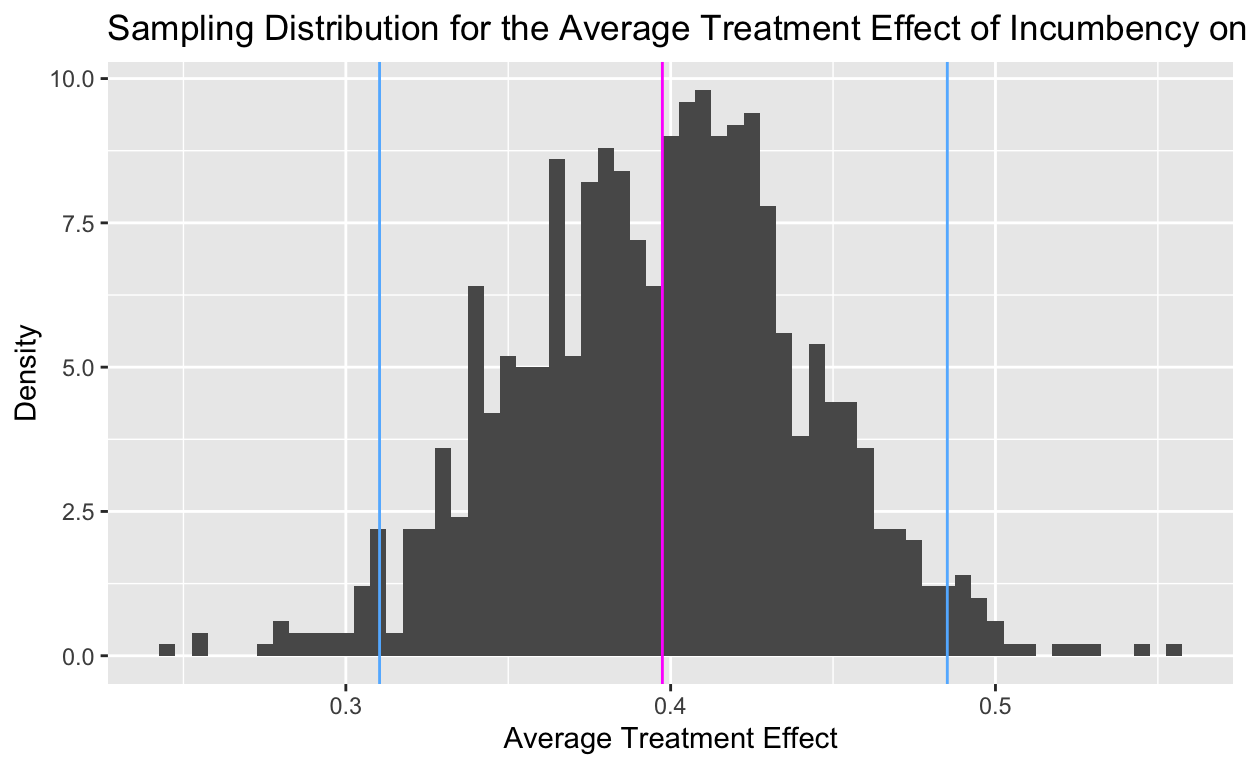
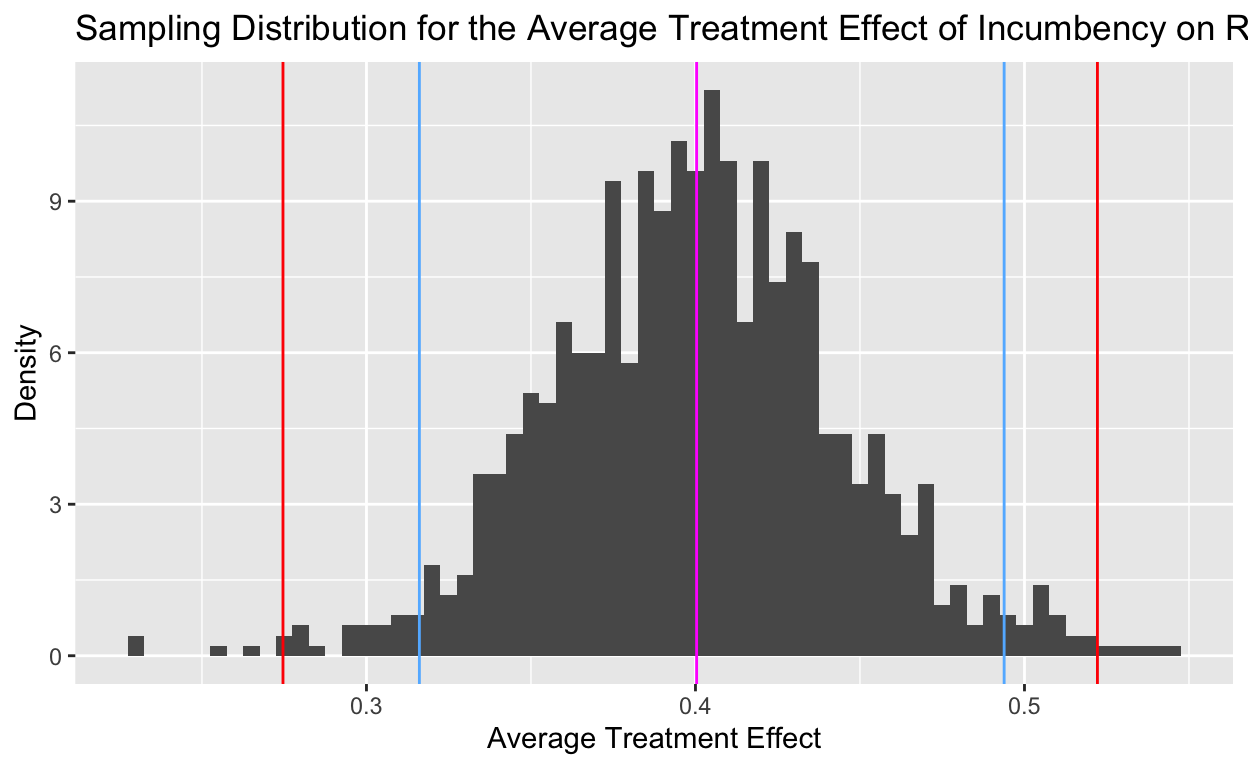
Revisions with knitter

diff --git a/index.html b/index.html
@@ -1545,7 +1545,7 @@ code span.wa { color: #5e5e5e; font-style: italic; } /* Warning */
 <div class="d-article">
 <h2 id="introduction">Introduction</h2>
 <p>The 2020 U.S. Presidential Election between Donald Trump and Joe Biden proved to be contentious as many citizens, including elected representatives, denied it’s legitimacy. The widespread denial eventually lead to, what some political scientists consider, a coup d’état on January 6th, 2021, where more than 2,000 rioters stormed the U.S. capital in an attempt to block Joe Biden’s inauguration. This historic event fueled further political polarization among American voters, and “denying the 2020 election” became a new characteristic that some voters used to cast their ballot. I aim to determine if it is more likely for republicans to have a decisive opinion on the legitimacy of the 2020 election when they have greater sense of security in their election success, such as when they are an incumbent. According to authors of “Government in America: People, Politics, and Policy”, Incumbency is the strongest determinant of electoral success. The researchers compiled data from Congressional elections and determined that incumbents have had between a 75 and 98 percent success rate when running for reelection between 1990 and 2012 (Edwards et al., 2013, 365). In 2020, incumbents running for reelection in the U.S. House of Representatives had a 94.7 percent chance of winning, while U.S. Senators had an 83.9 percent chance of winning reelection, given they held the position before (Reelection Rates Over the Years, n.d.). While these statistics are explained by the incumbent’s increased access to money, campaign organization, visibility, and office perks of Congress, it also represents a heightened feeling of job security which eases electoral pressure and allows candidates to speak more freely about their opinion on contentious political topics.</p>
-<p>Thus my research question is as follows: Does incumbency impact a republican congressional candidate’s likelihood of outwardly denying the 2020 Election results? In this study, I plan determine if there is a correlation between the incumbency of congressional republican representatives who are candidates in the 2022 elections and if they deny the 2020 election. I hypothesis that being an incumbent increases the candidates feelings of job security, and are thus more likely to express potentially polarizing view points, such as denying the election. I expect to find a positive correlation between incumbency of the congressional candidate and having a decisive opinion regarding the legitimacy of the 2020 U.S. Presidential Election.</p>
+<p>Thus my research question is as follows: Does incumbency impact a republican congressional candidate’s likelihood of presenting a decisive opinion on the legitimacy of the 2020 Election results? In this study, I plan determine if there is a correlation between the incumbency of congressional republican representatives who are candidates in the 2022 elections and if they positively deny or approve the results of the 2020 election. I hypothesis that being an incumbent increases the candidates feelings of job security, and are thus more likely to express potentially polarizing view points, such as denying the election, or accepting the reuslts of the election. I expect to find a positive correlation between incumbency of the congressional candidate and having a decisive opinion regarding the legitimacy of the 2020 U.S. Presidential Election.</p>
 <h2 id="data-and-research-method">Data and Research Method</h2>
 <p>To begin this project, I gathered data from a FiveThirtyEight data set titled, “election-deniers” that includes 552 entries for every republican candidate in the 2022 General Election. The data drew from news reports, debate footage, campaign materials and social media and reached out to every nominee in an effort to classify them into one of six categories regarding their belief in the 2020 election’s legitimacy. The final data set includes the name of every Republican candidate for Senate, House, governor, attorney general and secretary of state running in the 2022 general election, their incumbency status, state, office, district, stance, and media source where the candidate expressed their stance. Since my data was gathered from the sample at a single point in time, my research process is cross-sectional.</p>
 <p>To conduct my analyses, I filtered the data by office to ensure that I was only evaluating candidates for the House of Representatives. This allowed me to control for as many variables as possible.</p>
@@ -1567,39 +1567,16 @@ code span.wa { color: #5e5e5e; font-style: italic; } /* Warning */
 <span>                                       <span class='va'>Stance</span> <span class='op'>==</span> <span class='st'>"Avoided answering"</span><span class='op'>~</span> <span class='fl'>0</span> , </span>
 <span>                                       <span class='va'>Stance</span> <span class='op'>==</span> <span class='st'>"No comment"</span> <span class='op'>~</span> <span class='fl'>0</span><span class='op'>)</span><span class='op'>)</span></span>
 <span></span>
-<span><span class='va'>e2</span></span></code></pre>
-</div>
-<pre><code># A tibble: 424 × 10
-   Candidate Incumbent State Office District Stance Source URL   Note 
-   &lt;chr&gt;     &lt;chr&gt;     &lt;chr&gt; &lt;chr&gt;  &lt;chr&gt;    &lt;chr&gt;  &lt;chr&gt;  &lt;chr&gt; &lt;chr&gt;
- 1 Jerry Ca… Yes       Alab… Repre… 1        Fully… Congr… http… &lt;NA&gt; 
- 2 Barry Mo… Yes       Alab… Repre… 2        Fully… Congr… http… &lt;NA&gt; 
- 3 Mike Rog… Yes       Alab… Repre… 3        Fully… Congr… http… &lt;NA&gt; 
- 4 Robert A… Yes       Alab… Repre… 4        Fully… Congr… http… &lt;NA&gt; 
- 5 Dale Str… No        Alab… Repre… 5        Fully… Faceb… http… &lt;NA&gt; 
- 6 Gary Pal… Yes       Alab… Repre… 6        Fully… Congr… http… &lt;NA&gt; 
- 7 Beatrice… No        Alab… Repre… 7        Raise… Email… &lt;NA&gt;  &lt;NA&gt; 
- 8 Nick Beg… No        Alas… Repre… At-Large Accep… Email… &lt;NA&gt;  &lt;NA&gt; 
- 9 Sarah Pa… No        Alas… Repre… At-Large Fully… Alask… http… &lt;NA&gt; 
-10 David Sc… Yes       Ariz… Repre… 1        Fully… Congr… http… &lt;NA&gt; 
-# ℹ 414 more rows
-# ℹ 1 more variable: definitive_stance &lt;dbl&gt;</code></pre>
-<div class="sourceCode">
-<pre class="sourceCode r"><code class="sourceCode r"><span><span class='va'>plot</span><span class='op'>&lt;-</span> <span class='va'>e2</span><span class='op'>|&gt;</span></span>
+<span></span>
+<span><span class='va'>plot</span><span class='op'>&lt;-</span> <span class='va'>e2</span><span class='op'>|&gt;</span></span>
 <span>  <span class='fu'><a href='https://dplyr.tidyverse.org/reference/group_by.html'>group_by</a></span><span class='op'>(</span><span class='va'>definitive_stance</span>, <span class='va'>Incumbent</span><span class='op'>)</span><span class='op'>|&gt;</span></span>
 <span>  <span class='fu'><a href='https://dplyr.tidyverse.org/reference/summarise.html'>summarize</a></span><span class='op'>(</span>count <span class='op'>=</span> <span class='fu'><a href='https://dplyr.tidyverse.org/reference/context.html'>n</a></span><span class='op'>(</span><span class='op'>)</span><span class='op'>)</span><span class='op'>|&gt;</span></span>
 <span>  <span class='fu'><a href='https://tidyr.tidyverse.org/reference/pivot_wider.html'>pivot_wider</a></span><span class='op'>(</span></span>
 <span>    names_from <span class='op'>=</span> <span class='va'>definitive_stance</span>, </span>
 <span>    values_from <span class='op'>=</span> <span class='va'>count</span><span class='op'>)</span></span>
-<span><span class='va'>plot</span></span></code></pre>
-</div>
-<pre><code># A tibble: 2 × 3
-  Incumbent   `0`   `1`
-  &lt;chr&gt;     &lt;int&gt; &lt;int&gt;
-1 No          158    82
-2 Yes          48   136</code></pre>
-<div class="sourceCode">
-<pre class="sourceCode r"><code class="sourceCode r"><span><span class='fu'>knitr</span><span class='fu'>::</span><span class='fu'><a href='https://rdrr.io/pkg/knitr/man/kable.html'>kable</a></span><span class='op'>(</span><span class='va'>plot</span>, col.names <span class='op'>=</span> <span class='fu'><a href='https://rdrr.io/r/base/c.html'>c</a></span><span class='op'>(</span><span class='st'>"Incumbent"</span>, <span class='st'>"Not Definitive"</span>, <span class='st'>"Definitive"</span><span class='op'>)</span><span class='op'>)</span></span></code></pre>
+<span></span>
+<span></span>
+<span><span class='fu'>knitr</span><span class='fu'>::</span><span class='fu'><a href='https://rdrr.io/pkg/knitr/man/kable.html'>kable</a></span><span class='op'>(</span><span class='va'>plot</span>, col.names <span class='op'>=</span> <span class='fu'><a href='https://rdrr.io/r/base/c.html'>c</a></span><span class='op'>(</span><span class='st'>"Incumbent"</span>, <span class='st'>"Not Definitive"</span>, <span class='st'>"Definitive"</span><span class='op'>)</span><span class='op'>)</span></span></code></pre>
 </div>
 <table>
 <thead>
@@ -1633,15 +1610,8 @@ code span.wa { color: #5e5e5e; font-style: italic; } /* Warning */
 <span>    names_from <span class='op'>=</span> <span class='va'>Incumbent</span>,</span>
 <span>    values_from <span class='op'>=</span> <span class='va'>stance_mean</span></span>
 <span>  <span class='op'>)</span></span>
-<span></span>
-<span><span class='va'>plot2</span></span></code></pre>
-</div>
-<pre><code># A tibble: 1 × 2
-     No   Yes
-  &lt;dbl&gt; &lt;dbl&gt;
-1 0.342 0.739</code></pre>
-<div class="sourceCode">
-<pre class="sourceCode r"><code class="sourceCode r"><span><span class='fu'>knitr</span><span class='fu'>::</span><span class='fu'><a href='https://rdrr.io/pkg/knitr/man/kable.html'>kable</a></span><span class='op'>(</span><span class='va'>plot2</span>, col.names <span class='op'>=</span> <span class='fu'><a href='https://rdrr.io/r/base/c.html'>c</a></span><span class='op'>(</span><span class='st'>"Non-Incumbent"</span>, <span class='st'>"Incumbent"</span><span class='op'>)</span><span class='op'>)</span></span></code></pre>
+<span>  </span>
+<span><span class='fu'>knitr</span><span class='fu'>::</span><span class='fu'><a href='https://rdrr.io/pkg/knitr/man/kable.html'>kable</a></span><span class='op'>(</span><span class='va'>plot2</span>, col.names <span class='op'>=</span> <span class='fu'><a href='https://rdrr.io/r/base/c.html'>c</a></span><span class='op'>(</span><span class='st'>"Non-Incumbent"</span>, <span class='st'>"Incumbent"</span><span class='op'>)</span><span class='op'>)</span></span></code></pre>
 </div>
 <table>
 <thead>
@@ -1688,7 +1658,8 @@ code span.wa { color: #5e5e5e; font-style: italic; } /* Warning */
 <h2 id="analysis-of-the-data-and-results">Analysis of the data and Results</h2>
 <p>The graph below shows the sampling distribution for the Average Treatment Effect of Incumbency on Republican Representatives’ likelihood to be decisive about the Legitimacy of the 2020 Election. The histogram depicts the 1000 bootstrap samples that were pulled with replacement from the original sample.</p>
 <p>The left-most vertical blue line that intersects the x-axis at x=0.3103845 is the lower-confidence interval for 95% confidence. The right-most vertical blue line intersects the x-axis at 0.4851755 and represents the upper-confidence interval for 95% confidence. Together, the vertical lines indicate that 95% of the data can be found within the range bordered by the two vertical lines. The magenta line intersects the x-axis at the mean of all samples’ average treatment effects.</p>
-<p>What should be noticed about this sampling distribution is that the confidence interval does not contain zero, meaning that the average treatment effect for 95% of the data shows a positive difference between incumbency variables and the likelihood for a republican representative to be decisive on their opinion regarding the validity of the 2020 election. Thus, the sampling distribution of the average treatment effects prove statistical signficance between the two variables, though it is important to note that important confounders, such as geography have not been considered.</p>
+<p>The left-most vertical red line that intersects the x-axis at x=0.2746276 is the lower-confidence interval for 99% confidence. The right-most vertical blue line intersects the x-axis at x=0.522173 and represents the upper-confidence interval for 99% confidence. Together, the vertical lines indicate that 99% of the data can be found within the range bordered by the two vertical lines.</p>
+<p>What should be noticed about this sampling distribution is that the confidence interval does not contain zero, meaning that the average treatment effect for 95% and 99% of the data show a positive difference between incumbency variables and the likelihood for a republican representative to be decisive on their opinion regarding the validity of the 2020 election. Thus, the sampling distribution of the average treatment effects prove statistical signficance between the two variables, though it is important to note that important confounders, such as geography have not been considered.</p>
 <div class="layout-chunk" data-layout="l-body">
 <div class="sourceCode">
 <pre class="sourceCode r"><code class="sourceCode r"><span><span class='va'>diff_in_means</span> <span class='op'>&lt;-</span> <span class='va'>e2</span><span class='op'>|&gt;</span> </span>
@@ -1698,17 +1669,30 @@ code span.wa { color: #5e5e5e; font-style: italic; } /* Warning */
 <span>              values_from <span class='op'>=</span> <span class='va'>stance_mean</span><span class='op'>)</span><span class='op'>|&gt;</span> </span>
 <span>   <span class='fu'><a href='https://dplyr.tidyverse.org/reference/mutate.html'>mutate</a></span><span class='op'>(</span>ATE<span class='op'>=</span><span class='va'>`Yes`</span><span class='op'>-</span><span class='va'>`No`</span><span class='op'>)</span> </span>
 <span></span>
-<span><span class='va'>diff_in_means</span></span></code></pre>
+<span></span>
+<span><span class='fu'>knitr</span><span class='fu'>::</span><span class='fu'><a href='https://rdrr.io/pkg/knitr/man/kable.html'>kable</a></span><span class='op'>(</span><span class='va'>diff_in_means</span>, col.names <span class='op'>=</span> <span class='fu'><a href='https://rdrr.io/r/base/c.html'>c</a></span><span class='op'>(</span><span class='st'>"Non-Incumbent"</span>, <span class='st'>"Incumbent"</span>, <span class='st'>"ATE"</span><span class='op'>)</span><span class='op'>)</span></span></code></pre>
 </div>
-<pre><code># A tibble: 1 × 3
-     No   Yes   ATE
-  &lt;dbl&gt; &lt;dbl&gt; &lt;dbl&gt;
-1 0.342 0.739 0.397</code></pre>
+<table>
+<thead>
+<tr class="header">
+<th style="text-align: right;">Non-Incumbent</th>
+<th style="text-align: right;">Incumbent</th>
+<th style="text-align: right;">ATE</th>
+</tr>
+</thead>
+<tbody>
+<tr class="odd">
+<td style="text-align: right;">0.3416667</td>
+<td style="text-align: right;">0.7391304</td>
+<td style="text-align: right;">0.3974638</td>
+</tr>
+</tbody>
+</table>
 </div>
 <div class="layout-chunk" data-layout="l-body">
 <div class="sourceCode">
 <pre class="sourceCode r"><code class="sourceCode r"><span><span class='kw'><a href='https://rdrr.io/r/base/library.html'>library</a></span><span class='op'>(</span><span class='va'><a href='https://github.com/tidymodels/infer'>infer</a></span><span class='op'>)</span> </span>
-<span><span class='fu'><a href='https://rdrr.io/r/base/Random.html'>set.seed</a></span><span class='op'>(</span><span class='fl'>02138</span><span class='op'>)</span></span>
+<span><span class='fu'><a href='https://rdrr.io/r/base/Random.html'>set.seed</a></span><span class='op'>(</span><span class='fl'>87122</span><span class='op'>)</span></span>
 <span><span class='va'>dim_boots</span> <span class='op'>&lt;-</span> <span class='va'>e2</span><span class='op'>|&gt;</span> </span>
 <span>  <span class='fu'><a href='https://infer.tidymodels.org/reference/rep_sample_n.html'>rep_slice_sample</a></span><span class='op'>(</span>prop<span class='op'>=</span><span class='fl'>1</span>, replace<span class='op'>=</span><span class='cn'>TRUE</span>, reps<span class='op'>=</span><span class='fl'>1000</span><span class='op'>)</span><span class='op'>|&gt;</span> </span>
 <span>  <span class='fu'><a href='https://dplyr.tidyverse.org/reference/group_by.html'>group_by</a></span><span class='op'>(</span><span class='va'>replicate</span>, <span class='va'>Incumbent</span><span class='op'>)</span><span class='op'>|&gt;</span> </span>
@@ -1716,25 +1700,8 @@ code span.wa { color: #5e5e5e; font-style: italic; } /* Warning */
 <span>  <span class='fu'><a href='https://tidyr.tidyverse.org/reference/pivot_wider.html'>pivot_wider</a></span><span class='op'>(</span>names_from <span class='op'>=</span> <span class='va'>Incumbent</span>,</span>
 <span>              values_from <span class='op'>=</span> <span class='va'>stance_mean</span><span class='op'>)</span><span class='op'>|&gt;</span> </span>
 <span>  <span class='fu'><a href='https://dplyr.tidyverse.org/reference/mutate.html'>mutate</a></span><span class='op'>(</span>ATE<span class='op'>=</span><span class='va'>`Yes`</span><span class='op'>-</span><span class='va'>`No`</span><span class='op'>)</span> </span>
-<span><span class='va'>dim_boots</span></span></code></pre>
-</div>
-<pre><code># A tibble: 1,000 × 4
-# Groups:   replicate [1,000]
-   replicate    No   Yes   ATE
-       &lt;int&gt; &lt;dbl&gt; &lt;dbl&gt; &lt;dbl&gt;
- 1         1 0.361 0.696 0.335
- 2         2 0.362 0.682 0.320
- 3         3 0.311 0.761 0.450
- 4         4 0.352 0.720 0.368
- 5         5 0.357 0.738 0.381
- 6         6 0.389 0.742 0.353
- 7         7 0.331 0.744 0.414
- 8         8 0.335 0.739 0.405
- 9         9 0.340 0.763 0.423
-10        10 0.353 0.703 0.349
-# ℹ 990 more rows</code></pre>
-<div class="sourceCode">
-<pre class="sourceCode r"><code class="sourceCode r"><span><span class='va'>dim_ci_95</span> <span class='op'>&lt;-</span> <span class='va'>dim_boots</span><span class='op'>|&gt;</span> </span>
+<span></span>
+<span><span class='va'>dim_ci_95</span> <span class='op'>&lt;-</span> <span class='va'>dim_boots</span><span class='op'>|&gt;</span> </span>
 <span>  <span class='fu'><a href='https://dplyr.tidyverse.org/reference/select.html'>select</a></span><span class='op'>(</span><span class='va'>replicate</span>,<span class='va'>ATE</span><span class='op'>)</span><span class='op'>|&gt;</span> </span>
 <span>  <span class='fu'><a href='https://infer.tidymodels.org/reference/get_confidence_interval.html'>get_confidence_interval</a></span><span class='op'>(</span>level<span class='op'>=</span><span class='fl'>0.95</span>,type<span class='op'>=</span><span class='st'>"percentile"</span><span class='op'>)</span> </span>
 <span></span>
@@ -1743,12 +1710,25 @@ code span.wa { color: #5e5e5e; font-style: italic; } /* Warning */
 <pre><code># A tibble: 1 × 2
   lower_ci upper_ci
      &lt;dbl&gt;    &lt;dbl&gt;
-1    0.310    0.485</code></pre>
+1    0.316    0.494</code></pre>
+<div class="sourceCode">
+<pre class="sourceCode r"><code class="sourceCode r"><span><span class='va'>dim_ci_99</span> <span class='op'>&lt;-</span> <span class='va'>dim_boots</span><span class='op'>|&gt;</span> </span>
+<span>  <span class='fu'><a href='https://dplyr.tidyverse.org/reference/select.html'>select</a></span><span class='op'>(</span><span class='va'>replicate</span>,<span class='va'>ATE</span><span class='op'>)</span><span class='op'>|&gt;</span> </span>
+<span>  <span class='fu'><a href='https://infer.tidymodels.org/reference/get_confidence_interval.html'>get_confidence_interval</a></span><span class='op'>(</span>level<span class='op'>=</span><span class='fl'>0.99</span>,type<span class='op'>=</span><span class='st'>"percentile"</span><span class='op'>)</span> </span>
+<span></span>
+<span><span class='va'>dim_ci_99</span></span></code></pre>
+</div>
+<pre><code># A tibble: 1 × 2
+  lower_ci upper_ci
+     &lt;dbl&gt;    &lt;dbl&gt;
+1    0.275    0.522</code></pre>
 <div class="sourceCode">
 <pre class="sourceCode r"><code class="sourceCode r"><span><span class='va'>dim_boots</span><span class='op'>|&gt;</span> </span>
 <span>  <span class='fu'><a href='https://ggplot2.tidyverse.org/reference/ggplot.html'>ggplot</a></span><span class='op'>(</span><span class='fu'><a href='https://ggplot2.tidyverse.org/reference/aes.html'>aes</a></span><span class='op'>(</span>x<span class='op'>=</span><span class='va'>ATE</span><span class='op'>)</span><span class='op'>)</span><span class='op'>+</span> <span class='fu'><a href='https://ggplot2.tidyverse.org/reference/geom_histogram.html'>geom_histogram</a></span><span class='op'>(</span><span class='fu'><a href='https://ggplot2.tidyverse.org/reference/aes.html'>aes</a></span><span class='op'>(</span>y<span class='op'>=</span><span class='fu'><a href='https://ggplot2.tidyverse.org/reference/aes_eval.html'>after_stat</a></span><span class='op'>(</span><span class='va'>density</span><span class='op'>)</span><span class='op'>)</span>,binwidth<span class='op'>=</span><span class='fl'>0.005</span><span class='op'>)</span> <span class='op'>+</span> </span>
 <span>  <span class='fu'><a href='https://ggplot2.tidyverse.org/reference/geom_abline.html'>geom_vline</a></span><span class='op'>(</span><span class='fu'><a href='https://ggplot2.tidyverse.org/reference/aes.html'>aes</a></span><span class='op'>(</span>xintercept <span class='op'>=</span> <span class='va'>dim_ci_95</span><span class='op'>$</span><span class='va'>lower_ci</span><span class='op'>)</span>, color <span class='op'>=</span> <span class='st'>"steelblue1"</span><span class='op'>)</span> <span class='op'>+</span></span>
 <span>  <span class='fu'><a href='https://ggplot2.tidyverse.org/reference/geom_abline.html'>geom_vline</a></span><span class='op'>(</span><span class='fu'><a href='https://ggplot2.tidyverse.org/reference/aes.html'>aes</a></span><span class='op'>(</span>xintercept <span class='op'>=</span> <span class='va'>dim_ci_95</span><span class='op'>$</span><span class='va'>upper_ci</span><span class='op'>)</span>, color <span class='op'>=</span> <span class='st'>"steelblue1"</span><span class='op'>)</span> <span class='op'>+</span></span>
+<span>  <span class='fu'><a href='https://ggplot2.tidyverse.org/reference/geom_abline.html'>geom_vline</a></span><span class='op'>(</span><span class='fu'><a href='https://ggplot2.tidyverse.org/reference/aes.html'>aes</a></span><span class='op'>(</span>xintercept <span class='op'>=</span> <span class='va'>dim_ci_99</span><span class='op'>$</span><span class='va'>lower_ci</span><span class='op'>)</span>, color <span class='op'>=</span> <span class='st'>"red"</span><span class='op'>)</span> <span class='op'>+</span></span>
+<span>  <span class='fu'><a href='https://ggplot2.tidyverse.org/reference/geom_abline.html'>geom_vline</a></span><span class='op'>(</span><span class='fu'><a href='https://ggplot2.tidyverse.org/reference/aes.html'>aes</a></span><span class='op'>(</span>xintercept <span class='op'>=</span> <span class='va'>dim_ci_99</span><span class='op'>$</span><span class='va'>upper_ci</span><span class='op'>)</span>, color <span class='op'>=</span> <span class='st'>"red"</span><span class='op'>)</span> <span class='op'>+</span></span>
 <span>  <span class='fu'><a href='https://ggplot2.tidyverse.org/reference/geom_abline.html'>geom_vline</a></span><span class='op'>(</span><span class='fu'><a href='https://ggplot2.tidyverse.org/reference/aes.html'>aes</a></span><span class='op'>(</span>xintercept <span class='op'>=</span> <span class='fu'><a href='https://rdrr.io/r/base/mean.html'>mean</a></span><span class='op'>(</span><span class='va'>ATE</span><span class='op'>)</span><span class='op'>)</span>, color <span class='op'>=</span><span class='st'>"magenta"</span><span class='op'>)</span> <span class='op'>+</span></span>
 <span>  <span class='fu'><a href='https://ggplot2.tidyverse.org/reference/labs.html'>labs</a></span><span class='op'>(</span></span>
 <span>    x <span class='op'>=</span> <span class='st'>"Average Treatment Effect"</span>,</span>
@@ -1756,13 +1736,31 @@ code span.wa { color: #5e5e5e; font-style: italic; } /* Warning */
 <span>    title <span class='op'>=</span> <span class='st'>"Sampling Distribution for the Average Treatment Effect of Incumbency on Republican Representatives' likelihood to be decisive about the Legitimacy of the 2020 Election"</span></span>
 <span>  <span class='op'>)</span></span></code></pre>
 </div>
-<p><img src="index_files/figure-html5/unnamed-chunk-6-1.png" width="624" /></p>
+<img src="index_files/figure-html5/unnamed-chunk-6-1.png" width="624" />
+<div class="sourceCode">
+<pre class="sourceCode r"><code class="sourceCode r"><span><span class='va'>dim_boots</span></span></code></pre>
+</div>
+<pre><code># A tibble: 1,000 × 4
+# Groups:   replicate [1,000]
+   replicate    No   Yes   ATE
+       &lt;int&gt; &lt;dbl&gt; &lt;dbl&gt; &lt;dbl&gt;
+ 1         1 0.267 0.703 0.436
+ 2         2 0.360 0.766 0.406
+ 3         3 0.343 0.759 0.416
+ 4         4 0.303 0.714 0.412
+ 5         5 0.324 0.756 0.432
+ 6         6 0.367 0.778 0.411
+ 7         7 0.344 0.731 0.387
+ 8         8 0.335 0.636 0.301
+ 9         9 0.312 0.731 0.419
+10        10 0.333 0.717 0.383
+# ℹ 990 more rows</code></pre>
 </div>
 <h2 id="conclusion">Conclusion</h2>
 <p>I used FiveThirtyEight’s Election_deniers data to compare the likelihood of a Republican Congressional Candidate in the 2020 election to present a decisive opinion on the legitimacy of the 2020 election and their incumbency status. I hypothesized that incumbents would be more likely to decisively express a polarizing opinion because they enjoy a greater sense of job security relative to their non-incumbent counterparts.</p>
-<p>I found that incumbents are significantly more likely to present decisive viewpoints on the 2020 election as 73.91304% of incumbents expressed decisive opinions while only 34.16667% of non-incumbents demonstrated decisiveness. Additionally, I found these findings statistically significant after evaluating 1000 bootstrap samples to determine that the average treatment effect was above zero with 95% confidence.</p>
+<p>I found that incumbents are significantly more likely to present decisive viewpoints on the 2020 election as 73.91304% of incumbents expressed decisive opinions while only 34.16667% of non-incumbents demonstrated decisiveness. Additionally, I found these findings statistically significant after evaluating 1000 bootstrap samples to determine that the average treatment effect was above zero with 99% confidence.</p>
 <p>Despite these findings, I cannot use the results to determine causality or support the reasoning that led to my hypothesis because of the existing confounding variables that may have impacted the results. For example, I did not control the geographic distribution in relation to political party or extremism, or any factors that could also explain rates of congressional representative turnover. For example, it is possible that my data was skewed by the possibility that non-swing states that are more definitively blue or red, such as California and Alabama, had a higher rate of incumbency in addition to a higher rate of political decisiveness, but not for reasons explained in my evaluation of incumbency of 2020 Election Validity decisiveness. In a more thorough study, it is important to control more variables, such as geographic distribution, and investigate patterns of incumbency to determine if they had a significant impact on incumbency and political decisiveness.</p>
-<div class="sourceCode" id="cb8"><pre class="sourceCode r distill-force-highlighting-css"><code class="sourceCode r"></code></pre></div>
+<div class="sourceCode" id="cb5"><pre class="sourceCode r distill-force-highlighting-css"><code class="sourceCode r"></code></pre></div>
 <!--radix_placeholder_article_footer-->
 <!--/radix_placeholder_article_footer-->
 </div>
